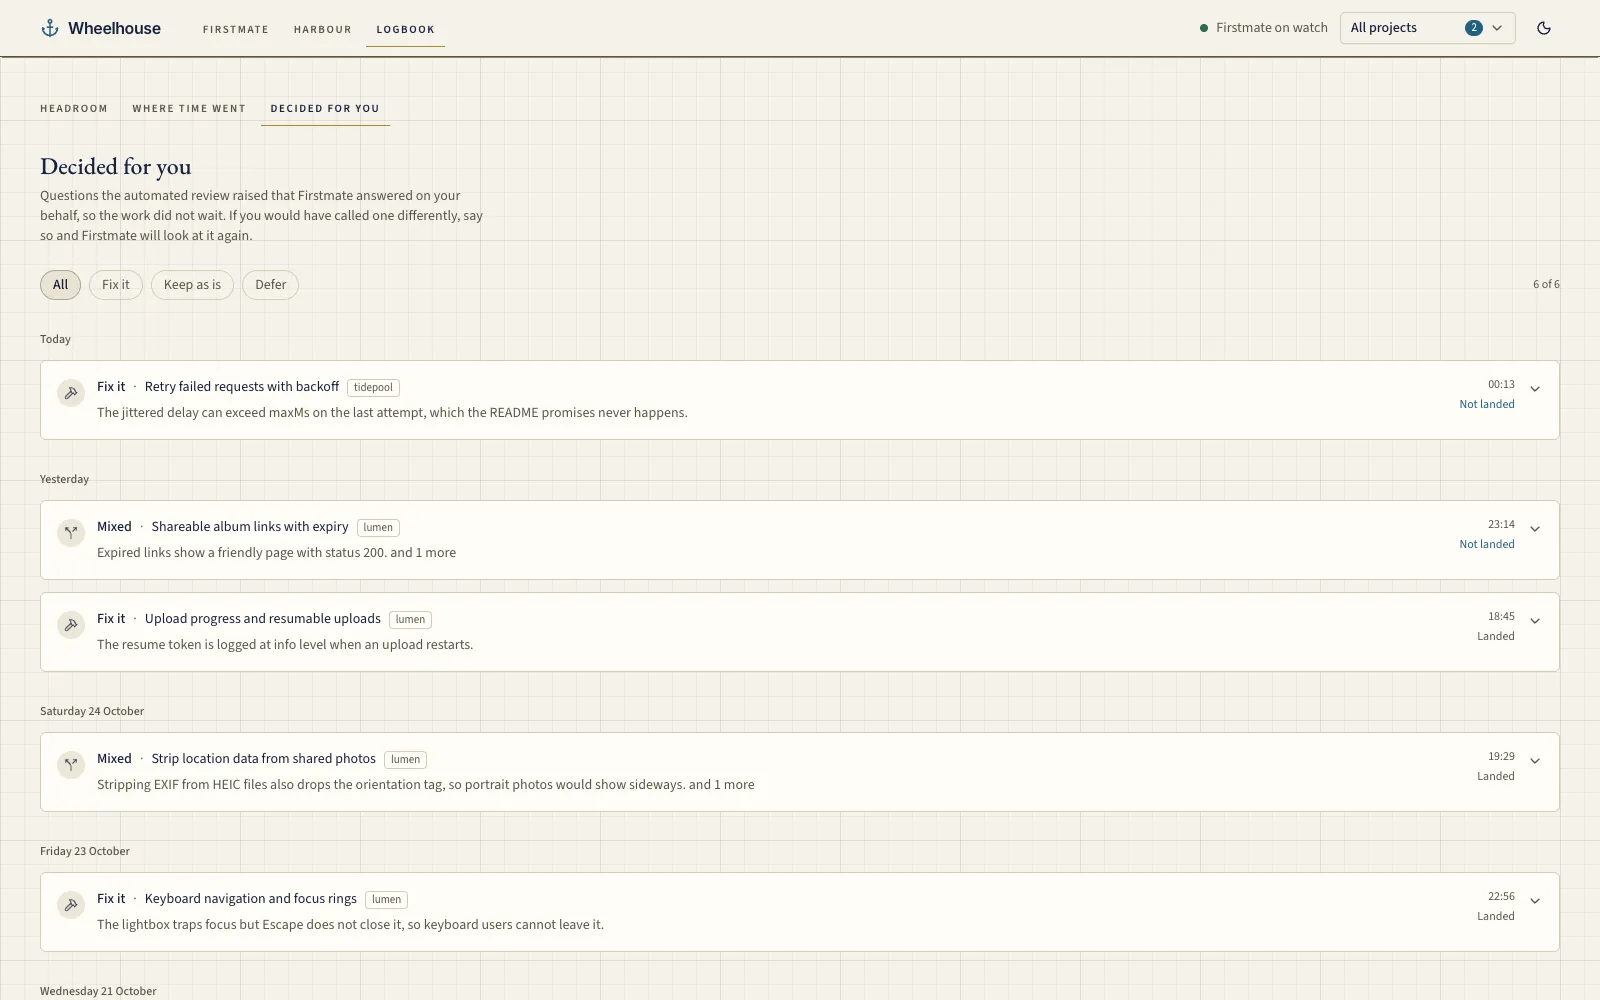
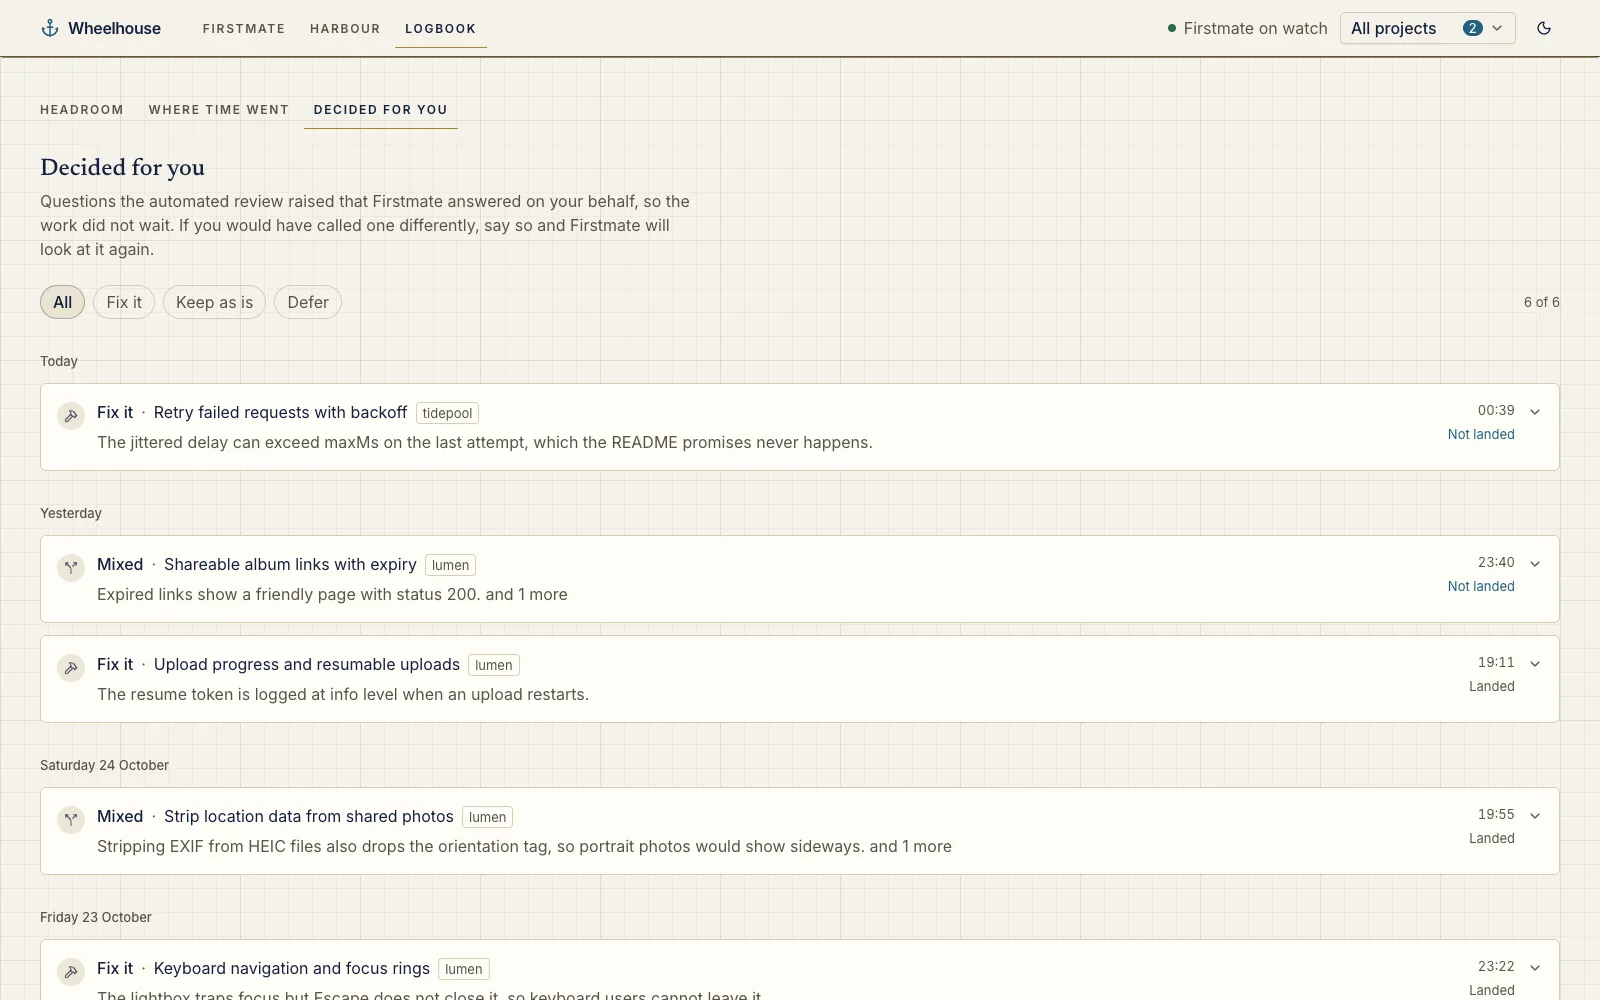
feat: larger, clearer type and two-tone chat with a Firstmate emblem (#25)
Raise the type scale and swap the bookish EB Garamond + Source Sans 3 pairing
for Newsreader headings (a serif drawn for screens) and an Inter body, keeping
the classic nautical look.

- Body text is 16px and chat 17px with relaxed line height; nothing the
  captain reads is below 13px, small-caps labels and SVG chart labels included.
- The captain's chat bubbles take a soft navy tint and Firstmate's stay paper
  on a hairline, in light and dark.
- A small ship's-wheel emblem on a navy disc ringed in brass sits beside each
  Firstmate reply.

README screenshots are refreshed from the synthetic demo crew.

diff --git a/src/lib/components/firstmate/Chat.svelte b/src/lib/components/firstmate/Chat.svelte
@@ -24,6 +24,7 @@
 	import type { SlotEntry } from '$lib/plugins/types';
 	import Blocks from '$lib/components/wh/plugins/Blocks.svelte';
 	import Activity from './Activity.svelte';
+	import Avatar from './Avatar.svelte';
 	import Composer from './Composer.svelte';
 	import PickerCard from './PickerCard.svelte';
 	import QuestionCard from './QuestionCard.svelte';
@@ -290,7 +291,7 @@
 					{#if item.kind === 'user'}
 						<div class="group flex flex-col items-end gap-1">
 							<div
-								class="max-w-[min(85%,62ch)] rounded-[0.6rem] rounded-br-[0.15rem] border bg-card px-4 py-2.5 text-[15px] leading-relaxed break-words whitespace-pre-wrap {item.command
+								class="max-w-[min(85%,62ch)] rounded-[0.6rem] rounded-br-[0.15rem] border border-bubble-captain-border bg-bubble-captain px-4 py-2.5 text-base leading-relaxed break-words whitespace-pre-wrap {item.command
 									? 'font-mono text-sm'
 									: ''}"
 							>
@@ -334,34 +335,40 @@
 							{/if}
 						</div>
 					{:else}
-						<div class="flex flex-col gap-3">
-							{#each item.parts as part, pi (part.id)}
-								{#if part.kind === 'text'}
-									<div
-										class="chat-md w-fit max-w-[80ch] rounded-[0.6rem] rounded-bl-[0.15rem] border bg-card px-4 py-2.5 text-[15px] leading-relaxed"
-									>
-										<!-- eslint-disable-next-line svelte/no-at-html-tags -- sanitised by DOMPurify in markdown() -->
-										{@html markdown(part.text)}
-									</div>
-									{#each matchBridgeCards(part.text, pluginEntries) as { entry, card } (`${entry.key}:${card.key}`)}
-										<div class="max-w-[80ch] rounded-xl border bg-card p-4" data-slot="bridge.card">
-											<p class="font-medium">{card.title}</p>
-											<div class="mt-2"><Blocks blocks={card.blocks} /></div>
+						<div class="flex items-start gap-3">
+							<Avatar class="mt-1 size-8" />
+							<div class="flex min-w-0 flex-1 flex-col gap-3">
+								{#each item.parts as part, pi (part.id)}
+									{#if part.kind === 'text'}
+										<div
+											class="chat-md w-fit max-w-[80ch] rounded-[0.6rem] rounded-bl-[0.15rem] border border-hair bg-bubble-firstmate px-4 py-2.5 text-base leading-relaxed"
+										>
+											<!-- eslint-disable-next-line svelte/no-at-html-tags -- sanitised by DOMPurify in markdown() -->
+											{@html markdown(part.text)}
 										</div>
-									{/each}
-								{:else if part.kind === 'question'}
-									<QuestionCard {part} />
-								{:else}
-									<Activity steps={part.steps} live={isLive(item, pi)} />
+										{#each matchBridgeCards(part.text, pluginEntries) as { entry, card } (`${entry.key}:${card.key}`)}
+											<div
+												class="max-w-[80ch] rounded-xl border bg-card p-4"
+												data-slot="bridge.card"
+											>
+												<p class="font-medium">{card.title}</p>
+												<div class="mt-2"><Blocks blocks={card.blocks} /></div>
+											</div>
+										{/each}
+									{:else if part.kind === 'question'}
+										<QuestionCard {part} />
+									{:else}
+										<Activity steps={part.steps} live={isLive(item, pi)} />
+									{/if}
+								{/each}
+								{#if item.interrupted}
+									<span class="text-xs text-muted-foreground">Stopped</span>
+								{:else if item.done && item.durationMs}
+									<span class="text-xs text-muted-foreground"
+										>Worked for {duration(item.durationMs)}</span
+									>
 								{/if}
-							{/each}
-							{#if item.interrupted}
-								<span class="text-xs text-muted-foreground">Stopped</span>
-							{:else if item.done && item.durationMs}
-								<span class="text-xs text-muted-foreground"
-									>Worked for {duration(item.durationMs)}</span
-								>
-							{/if}
+							</div>
 						</div>
 					{/if}
 				{/each}

diff --git a/src/app.css b/src/app.css
@@ -2,10 +2,9 @@
 @import 'tw-animate-css';
 @import 'shadcn-svelte/tailwind.css';
 @import '@fontsource-variable/inter';
-@import '@fontsource-variable/eb-garamond';
-@import '@fontsource-variable/eb-garamond/wght-italic.css';
-@import '@fontsource-variable/source-sans-3';
-@import '@fontsource-variable/source-sans-3/wght-italic.css';
+@import '@fontsource-variable/inter/wght-italic.css';
+@import '@fontsource-variable/newsreader';
+@import '@fontsource-variable/newsreader/wght-italic.css';
 @import '@fontsource-variable/jetbrains-mono';
 
 @custom-variant dark (&:is(.dark *));
@@ -14,8 +13,8 @@
  * Classic nautical: a ship's logbook, admiralty charts, brass instruments. Ivory paper and
  * deep navy ink (navy paper and ivory ink at night), shadcn semantic tokens on top, plus a
  * few status tokens. One restrained accent, muted sea blue, marks anything that needs the
- * captain; brass appears only in fine rules. Headings are EB Garamond, body and data Source
- * Sans 3, and the logo keeps Inter.
+ * captain; brass appears only in fine rules. Headings are Newsreader, a serif drawn for
+ * screens; body, data and the logo are Inter.
  */
 :root {
 	--radius: 0.375rem;
@@ -58,6 +57,11 @@
 	--seg-deciding: #a88734;
 	--seg-ci: #2e6a4f;
 	--seg-captain: #23607f;
+
+	/* Chat: the captain's bubble is a soft navy tint, Firstmate's is paper on a hairline. */
+	--bubble-captain: #e3e7ef;
+	--bubble-captain-border: #c8cfdc;
+	--bubble-firstmate: #fffdf7;
 }
 
 .dark {
@@ -98,11 +102,15 @@
 	--seg-deciding: #d8b866;
 	--seg-ci: #8cc7a6;
 	--seg-captain: #8ec3dd;
+
+	--bubble-captain: #22314f;
+	--bubble-captain-border: #34456a;
+	--bubble-firstmate: #131d31;
 }
 
 @theme inline {
-	--font-sans: 'Source Sans 3 Variable', ui-sans-serif, system-ui, sans-serif;
-	--font-display: 'EB Garamond Variable', Garamond, Georgia, serif;
+	--font-sans: 'Inter Variable', ui-sans-serif, system-ui, sans-serif;
+	--font-display: 'Newsreader Variable', Georgia, serif;
 	--font-logo: 'Inter Variable', ui-sans-serif, system-ui, sans-serif;
 	--font-mono: 'JetBrains Mono Variable', ui-monospace, monospace;
 	--color-background: var(--background);
@@ -132,6 +140,16 @@
 	--color-panel: var(--panel);
 	--color-brass: var(--brass);
 	--color-hair: var(--hair);
+	--color-bubble-captain: var(--bubble-captain);
+	--color-bubble-captain-border: var(--bubble-captain-border);
+	--color-bubble-firstmate: var(--bubble-firstmate);
+	/* Type scale: 13px is the floor for anything the captain reads, 16px the body. */
+	--text-xs: 0.8125rem;
+	--text-xs--line-height: 1.25rem;
+	--text-sm: 1rem;
+	--text-sm--line-height: 1.5rem;
+	--text-base: 1.0625rem;
+	--text-base--line-height: 1.7rem;
 	--radius-sm: calc(var(--radius) * 0.6);
 	--radius-md: calc(var(--radius) * 0.8);
 	--radius-lg: var(--radius);
@@ -175,7 +193,7 @@
 @layer components {
 	/* A logbook column head: letter-spaced small caps in the serif, on a hairline rule. */
 	.section-label {
-		@apply flex items-center gap-3 font-display text-[1.05rem] font-medium tracking-[0.12em] text-muted-foreground;
+		@apply flex items-center gap-3 font-display text-[1.2rem] font-medium tracking-[0.1em] text-muted-foreground;
 		font-variant-caps: all-small-caps;
 	}
 	.section-label::after {

diff --git a/src/lib/components/firstmate/Rail.svelte b/src/lib/components/firstmate/Rail.svelte
@@ -140,18 +140,18 @@
 		<div class="flex flex-wrap items-center gap-1.5">
 			{#if projectName(t)}
 				<span
-					class="rounded-sm border px-1.5 text-[0.8rem] leading-[1.15rem] font-semibold tracking-[0.08em] text-muted-foreground [font-variant-caps:all-small-caps]"
+					class="rounded-sm border px-1.5 text-[0.95rem] leading-[1.15rem] font-semibold tracking-[0.08em] text-muted-foreground [font-variant-caps:all-small-caps]"
 					>{projectName(t)}</span
 				>
 			{/if}
 			{#if p && Icon}
 				<span
-					class="flex items-center gap-1 rounded px-1.5 text-[11px] leading-[1.15rem] font-medium {TONE[
+					class="flex items-center gap-1 rounded px-1.5 text-xs leading-[1.15rem] font-medium {TONE[
 						p.tone
 					]}"><Icon class="size-3" aria-hidden="true" />{p.label}</span
 				>
 			{:else if t.busy}
-				<span class="flex items-center gap-1.5 text-[11px] text-muted-foreground"
+				<span class="flex items-center gap-1.5 text-xs text-muted-foreground"
 					><span class="size-1.5 animate-pulse rounded-full bg-sea" aria-hidden="true"
 					></span>Working</span
 				>
@@ -312,7 +312,7 @@
 								href={href(t)}
 								class="flex items-center gap-2 rounded-md px-2 py-1.5 text-sm text-muted-foreground hover:bg-muted hover:text-foreground"
 								>{#if projectName(t)}<span
-										class="shrink-0 rounded border px-1 font-mono text-[10px] leading-4"
+										class="shrink-0 rounded border px-1 font-mono text-xs leading-4"
 										>{projectName(t)}</span
 									>{/if}<span class="truncate">{t.shortTitle}</span></a
 							>
@@ -342,7 +342,7 @@
 									class="size-3.5 shrink-0 text-success"
 									aria-label="Landed"
 								/>{#if projectName(t)}<span
-										class="shrink-0 rounded border px-1 font-mono text-[10px] leading-4"
+										class="shrink-0 rounded border px-1 font-mono text-xs leading-4"
 										>{projectName(t)}</span
 									>{/if}<span class="truncate">{t.shortTitle}</span></a
 							>

diff --git a/src/lib/plugins/docket/ChartMap.svelte b/src/lib/plugins/docket/ChartMap.svelte
@@ -122,7 +122,7 @@
 			<text
 				x={lane.x + (lane.id === null ? 14 : 34)}
 				y={lane.y + 24}
-				class="fill-muted-foreground text-[12px] font-medium">{lane.title}</text
+				class="fill-muted-foreground text-[13px] font-medium">{lane.title}</text
 			>
 		</g>
 	{/each}
@@ -132,7 +132,7 @@
 		{@const c = layout.coast}
 		<rect x={c.x} y={c.y} width={c.w} height={c.h} rx="14" class="fill-sea/[0.09] stroke-sea/25" />
 		<Anchor x={c.x + 14} y={c.y + 12} size={14} class="text-sea" aria-hidden="true" />
-		<text x={c.x + 34} y={c.y + 24} class="fill-muted-foreground text-[12px] font-medium"
+		<text x={c.x + 34} y={c.y + 24} class="fill-muted-foreground text-[13px] font-medium"
 			>Where code runs</text
 		>
 	{/if}
@@ -231,10 +231,10 @@
 				class={n.kind === 'harbour' ? 'text-sea' : 'text-muted-foreground'}
 				aria-hidden="true"
 			/>
-			<text x="36" y="24" class="fill-foreground text-[12.5px] font-medium"
+			<text x="36" y="24" class="fill-foreground text-[14px] font-medium"
 				>{trunc(n.exhibit?.title ?? n.id, 19)}</text
 			>
-			<text x="36" y="41" class="fill-muted-foreground text-[10.5px]"
+			<text x="36" y="41" class="fill-muted-foreground text-[13px]"
 				>{trunc(subline(n), surveyed ? 13 : 24)}</text
 			>
 			{#if surveyed}
@@ -242,7 +242,7 @@
 					x={n.w - 9}
 					y="41"
 					text-anchor="end"
-					class="fill-muted-foreground text-[9.5px] italic"
+					class="fill-muted-foreground text-[13px] italic"
 					opacity={age === 'old' ? 0.45 : 0.9}
 					>{surveyed}<title
 						>Surveyed {surveyed}{age === 'old'

diff --git a/src/lib/components/firstmate/Avatar.svelte b/src/lib/components/firstmate/Avatar.svelte
@@ -1,0 +1,32 @@
+<script lang="ts">
+	/** Firstmate's emblem beside its messages: a ship's wheel on a navy disc ringed in brass. */
+	let { class: className = '' }: { class?: string } = $props();
+
+	const SPOKES = [0, 45, 90, 135, 180, 225, 270, 315];
+</script>
+
+<svg
+	viewBox="0 0 32 32"
+	class="shrink-0 {className}"
+	role="img"
+	aria-label="Firstmate"
+	xmlns="http://www.w3.org/2000/svg"
+>
+	<circle cx="16" cy="16" r="15.25" class="fill-primary stroke-brass" stroke-width="1.5" />
+	<g class="fill-none stroke-primary-foreground" stroke-linecap="round">
+		<circle cx="16" cy="16" r="7" stroke-width="1.6" />
+		{#each SPOKES as a (a)}
+			<line x1="16" y1="12.4" x2="16" y2="5.6" stroke-width="1.3" transform="rotate({a} 16 16)" />
+		{/each}
+	</g>
+	<circle cx="16" cy="16" r="2.4" class="fill-primary-foreground" />
+	{#each SPOKES as a (a)}
+		<circle
+			cx="16"
+			cy="5.2"
+			r="1.3"
+			class="fill-primary-foreground"
+			transform="rotate({a} 16 16)"
+		/>
+	{/each}
+</svg>

diff --git a/src/lib/components/firstmate/Composer.svelte b/src/lib/components/firstmate/Composer.svelte
@@ -266,7 +266,7 @@
 			{#each items as item, i (item.kind === 'command' ? item.c.name : `${item.r.kind}:${item.r.id}`)}
 				{@const prev = items[i - 1]}
 				{#if item.kind === 'command' && (!prev || (prev.kind === 'command' && prev.c.source !== item.c.source))}
-					<div class="px-2.5 pt-1.5 pb-1 text-[11px] font-medium text-muted-foreground">
+					<div class="px-2.5 pt-1.5 pb-1 text-xs font-medium text-muted-foreground">
 						{item.c.source === 'firstmate' ? 'Firstmate' : 'Claude Code'}
 					</div>
 				{/if}
@@ -319,7 +319,7 @@
 			aria-label="Message Firstmate"
 			aria-disabled={!canSend}
 			data-placeholder={placeholder}
-			class="editor no-scrollbar max-h-48 min-h-10 flex-1 overflow-y-auto py-2 text-[15px] leading-relaxed outline-none {empty
+			class="editor no-scrollbar max-h-48 min-h-10 flex-1 overflow-y-auto py-2 text-base leading-relaxed outline-none {empty
 				? 'is-empty'
 				: ''} {canSend ? '' : 'cursor-not-allowed'}"
 			oninput={refresh}

diff --git a/src/lib/components/wh/ConsoleWindow.svelte b/src/lib/components/wh/ConsoleWindow.svelte
@@ -77,7 +77,7 @@
 	data-console={task.id}
 >
 	<div
-		class="flex items-center gap-1.5 border-b border-terminal-foreground/10 px-3 py-1.5 text-[10px] text-terminal-foreground/60"
+		class="flex items-center gap-1.5 border-b border-terminal-foreground/10 px-3 py-1.5 text-xs text-terminal-foreground/60"
 	>
 		<TerminalSquare class="size-3" aria-hidden="true" />
 		<span>Live console</span>
@@ -85,7 +85,7 @@
 	</div>
 	{#if out?.available && out.lines.length}
 		<pre
-			class="flex min-h-0 flex-1 flex-col justify-end overflow-hidden px-3 py-2 font-mono text-[10px] leading-[1.45] whitespace-pre"
+			class="flex min-h-0 flex-1 flex-col justify-end overflow-hidden px-3 py-2 font-mono text-xs leading-[1.45] whitespace-pre"
 			aria-label="Latest lines of the worker’s terminal">{out.lines.slice(-lines).join('\n')}</pre>
 	{:else}
 		<p class="grid flex-1 place-items-center px-4 text-center text-xs text-terminal-foreground/60">

diff --git a/src/lib/plugins/docket/Chart.svelte b/src/lib/plugins/docket/Chart.svelte
@@ -309,7 +309,7 @@
 									>
 								</li>
 								<li class="flex items-center gap-2">
-									<span class="w-[34px] shrink-0 text-right text-[9px] text-muted-foreground italic"
+									<span class="w-[34px] shrink-0 text-right text-xs text-muted-foreground italic"
 										>09-14</span
 									>
 									<span
@@ -327,7 +327,7 @@
 									{#each layout.restrictions as r (r.id)}
 										<li class="flex items-start gap-2">
 											<span
-												class="mt-0.5 grid size-4 shrink-0 place-items-center rounded-full border border-warning/70 text-[9px] font-semibold text-warning"
+												class="mt-0.5 grid size-4 shrink-0 place-items-center rounded-full border border-warning/70 text-xs font-semibold text-warning"
 												>{r.letter}</span
 											>
 											<button

diff --git a/src/routes/tasks/[id]/+page.svelte b/src/routes/tasks/[id]/+page.svelte
@@ -736,7 +736,7 @@
 						></span>
 					{/if}
 					<span
-						class="relative z-10 mt-0.5 grid size-6 shrink-0 place-items-center rounded-full text-[11px] font-medium {done
+						class="relative z-10 mt-0.5 grid size-6 shrink-0 place-items-center rounded-full text-xs font-medium {done
 							? 'bg-foreground text-background'
 							: now
 								? t === 'trouble' || s.failed
@@ -1007,7 +1007,7 @@
 			<div class="flex flex-wrap items-baseline gap-x-2 px-4 py-3 text-sm">
 				<h2
 					id="ships-log"
-					class="font-display text-[1.05rem] font-medium tracking-[0.12em] text-muted-foreground [font-variant-caps:all-small-caps]"
+					class="font-display text-[1.2rem] font-medium tracking-[0.1em] text-muted-foreground [font-variant-caps:all-small-caps]"
 				>
 					Ship’s log
 				</h2>

diff --git a/src/routes/decisions/+page.svelte b/src/routes/decisions/+page.svelte
@@ -99,7 +99,7 @@
 										<span class="text-muted-foreground">·</span>
 										<span class="min-w-0 truncate">{d.taskTitle}</span>
 										{#if d.projectId}<span
-												class="rounded border px-1.5 text-[11px] text-muted-foreground"
+												class="rounded border px-1.5 text-xs text-muted-foreground"
 												>{d.projectId}</span
 											>{/if}
 									</p>
@@ -147,7 +147,7 @@
 														>The reviewer’s full note</summary
 													>
 													<p class="mt-1.5 leading-relaxed">{c.detail}</p>
-													{#if c.file}<p class="mt-1 font-mono text-[11px]">{c.file}</p>{/if}
+													{#if c.file}<p class="mt-1 font-mono text-xs">{c.file}</p>{/if}
 												</details>
 											{/if}
 											<div class="mt-2 flex flex-wrap gap-2">

diff --git a/src/lib/components/wh/Thumb.svelte b/src/lib/components/wh/Thumb.svelte
@@ -22,7 +22,7 @@
 		<div class="flex size-full flex-col justify-center gap-1.5 p-4" aria-label="Files changed">
 			{#each thumb.files as f (f.path)}
 				<div class="flex items-center gap-2">
-					<span class="w-0 flex-1 truncate font-mono text-[10px] text-muted-foreground"
+					<span class="w-0 flex-1 truncate font-mono text-xs text-muted-foreground"
 						>{f.path.split('/').pop()}</span
 					>
 					<span class="flex h-1.5 w-20 overflow-hidden rounded-full bg-border/60">
@@ -32,7 +32,7 @@
 				</div>
 			{/each}
 			{#if thumb.totalFiles > thumb.files.length}
-				<p class="font-mono text-[10px] text-muted-foreground">
+				<p class="font-mono text-xs text-muted-foreground">
 					+{thumb.totalFiles - thumb.files.length} more
 				</p>
 			{/if}

diff --git a/src/lib/plugins/docket/Inspector.svelte b/src/lib/plugins/docket/Inspector.svelte
@@ -119,7 +119,7 @@
 				{#each restricted as r (r.id)}
 					<li class="flex items-start gap-2">
 						<span
-							class="mt-0.5 grid size-4 shrink-0 place-items-center rounded-full border border-warning/70 text-[9px] font-semibold text-warning"
+							class="mt-0.5 grid size-4 shrink-0 place-items-center rounded-full border border-warning/70 text-xs font-semibold text-warning"
 							>{r.letter}</span
 						>
 						<button class="text-left hover:underline" onclick={() => onselect(r.id)}
